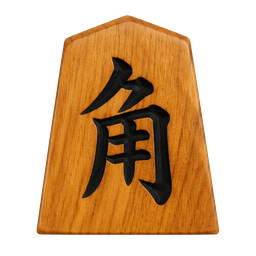
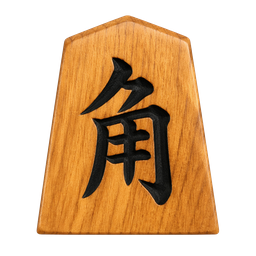
fix: piece orientation flicker, darken rook/bishop, richer board texture
- Use CSS individual transform properties (rotate, scale) instead of
  transform to prevent animation keyframes from overriding piece rotation
- Lighten rook/bishop/dragon/horse piece images (+15% brightness, -15% saturation)
- Add multi-layer CSS gradients for richer wood grain board texture

diff --git a/apps/web/src/components/board/PieceSVG.tsx b/apps/web/src/components/board/PieceSVG.tsx
@@ -29,7 +29,7 @@ type Props = {
 
 export function PieceSVG({ piece, flipped, isSelected, animate, size = 44 }: Props) {
   const isGote = piece.color === "gote";
-  const rotate = flipped ? !isGote : isGote;
+  const shouldRotate = flipped ? !isGote : isGote;
   const src = PIECE_IMAGE[piece.role] ?? PIECE_IMAGE.pawn;
 
   return (
@@ -37,15 +37,17 @@ export function PieceSVG({ piece, flipped, isSelected, animate, size = 44 }: Pro
       src={src}
       alt={piece.role}
       draggable={false}
-      className={`object-contain pointer-events-none transition-transform duration-150 ${
-        isSelected ? "scale-110 brightness-110" : ""
-      } ${animate ? "animate-piece-place" : ""}`}
+      className={`object-contain pointer-events-none ${
+        animate ? "animate-piece-place" : ""
+      }`}
       style={{
         width: size,
         height: size,
-        transform: rotate ? "rotate(180deg)" : undefined,
+        rotate: shouldRotate ? "180deg" : undefined,
+        scale: isSelected ? "1.1" : undefined,
+        transition: "scale 0.15s, filter 0.15s",
         filter: isSelected
-          ? "drop-shadow(0 2px 6px rgba(212,175,55,0.6))"
+          ? "drop-shadow(0 2px 6px rgba(212,175,55,0.6)) brightness(1.1)"
           : "drop-shadow(0 1px 2px rgba(0,0,0,0.3))",
       }}
     />

diff --git a/apps/web/src/components/board/ShogiBoard.tsx b/apps/web/src/components/board/ShogiBoard.tsx
@@ -210,8 +210,14 @@ export function ShogiBoard({
             style={{
               border: "2px solid #8B6914",
               backgroundColor: "#D4A050",
-              backgroundImage:
-                "repeating-linear-gradient(90deg, transparent, rgba(139,115,85,0.07) 1px, transparent 2px, transparent 13px)",
+              backgroundImage: [
+                "repeating-linear-gradient(90deg, transparent, rgba(139,115,85,0.08) 1px, transparent 2px, transparent 11px)",
+                "repeating-linear-gradient(88deg, transparent, rgba(130,100,50,0.05) 0.5px, transparent 1.5px, transparent 23px)",
+                "repeating-linear-gradient(92deg, transparent 0px, rgba(160,120,60,0.04) 0.5px, transparent 1px, transparent 37px)",
+                "repeating-linear-gradient(0deg, transparent, rgba(140,110,60,0.025) 0.5px, transparent 1px, transparent 48px)",
+                "linear-gradient(176deg, rgba(255,220,140,0.10) 0%, transparent 25%, rgba(120,85,30,0.06) 55%, transparent 85%)",
+                "radial-gradient(ellipse at 45% 40%, rgba(255,210,120,0.07) 0%, transparent 60%)",
+              ].join(","),
             }}
           >
             <div

diff --git a/apps/web/src/app/globals.css b/apps/web/src/app/globals.css
@@ -6,11 +6,11 @@
 
 @keyframes piece-place {
   0% {
-    transform: scale(1.3);
+    scale: 1.3;
     opacity: 0.5;
   }
   100% {
-    transform: scale(1);
+    scale: 1;
     opacity: 1;
   }
 }
